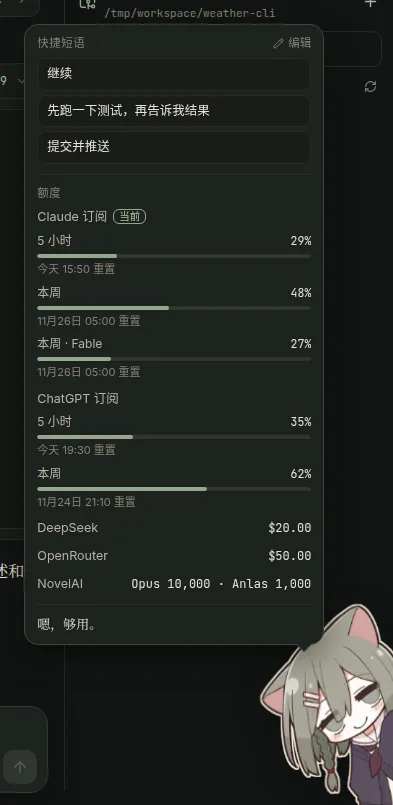
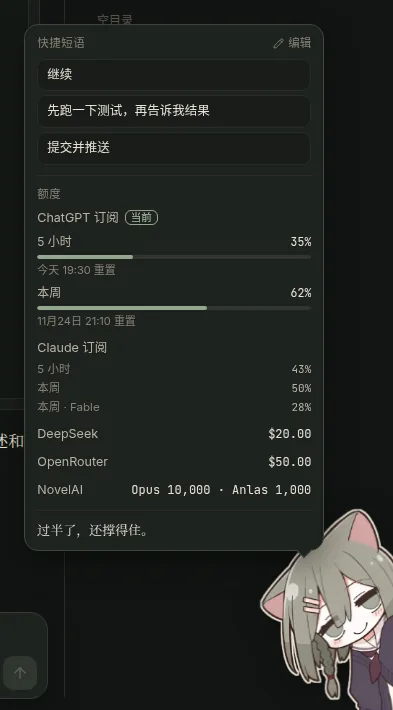
Doll: the quota in use in full, the others one line per window
Meters belong to the open session's quota (all its windows, the per-model
ones too); every other quota, and all of them on the home page, show one
line per window with the percentage, the reset time in a tooltip.

diff --git a/frontend/src/features/doll/Doll.tsx b/frontend/src/features/doll/Doll.tsx
@@ -90,21 +90,20 @@ function randomReaction(): Expression {
   return lastReaction;
 }
 
-/** The models a window is for ("Fable", "Gemini 模型"), or null for the plan's general one. */
-function scopeOf(w: UsageWindow): string | null {
-  const scope = /\(([^)]+)\)/.exec(w.label)?.[1];
-  return scope && !/all models/i.test(scope) ? scope : null;
-}
-
-/** The main models' windows (the first window's) get a meter; the others one short line each. */
-function WindowRows({ windows }: { windows: UsageWindow[] }) {
-  const main = scopeOf(windows[0]);
-  const minor = windows.filter((w) => scopeOf(w) !== main);
+/** A quota's windows: with meters for the one in use, one short line each for the others. */
+function WindowRows({ windows, compact }: { windows: UsageWindow[]; compact: boolean }) {
   return (
-    <div className="rz-doll-usage">
-      {windows.filter((w) => scopeOf(w) === main).map((w) => {
+    <div className={`rz-doll-usage${compact ? " compact" : ""}`}>
+      {windows.map((w) => {
         const level = w.percent >= 90 ? "high" : w.percent >= 80 ? "mid" : "";
         const reset = resetLabel(w.resetsAt, w.resetText);
+        if (compact)
+          return (
+            <div key={w.label} className={`rz-doll-minor ${level}`} title={reset ? `${reset} 重置` : undefined}>
+              <span>{windowName(w)}</span>
+              <span className="mono">{Math.round(w.percent)}%</span>
+            </div>
+          );
         return (
           <div key={w.label} className={`rz-doll-window ${level}`}>
             <div className="rz-doll-window-head">
@@ -116,21 +115,11 @@ function WindowRows({ windows }: { windows: UsageWindow[] }) {
           </div>
         );
       })}
-      {minor.map((w) => {
-        const level = w.percent >= 90 ? "high" : w.percent >= 80 ? "mid" : "";
-        const reset = resetLabel(w.resetsAt, w.resetText);
-        return (
-          <div key={w.label} className={`rz-doll-minor ${level}`} title={reset ? `${reset} 重置` : undefined}>
-            <span>{windowName(w)}</span>
-            <span className="mono">{Math.round(w.percent)}%</span>
-          </div>
-        );
-      })}
     </div>
   );
 }
 
-/** Every quota alike; the current session's one is marked. */
+/** Every quota alike; the one the open session uses is marked and shown in full, the others briefly. */
 function QuotaRows({ list, current }: { list: Quota[]; current: string | null }) {
   if (!list.length) return <div className="rz-doll-usage dim">没有可查的额度。</div>;
   return (
@@ -150,7 +139,9 @@ function QuotaRows({ list, current }: { list: Quota[]; current: string | null })
               <span className="mono">{q.balances.map(formatBalance).join(" · ") || "—"}</span>
             ) : null}
           </div>
-          {!q.error && q.windows && q.windows.length > 0 && <WindowRows windows={q.windows} />}
+          {!q.error && q.windows && q.windows.length > 0 && (
+            <WindowRows windows={q.windows} compact={current === null || q.route !== current} />
+          )}
         </div>
       ))}
     </div>
@@ -634,7 +625,7 @@ export default function Doll() {
               <div className="rz-doll-line">{bubble.text}</div>
               {(() => {
                 const q = bubble.quota ? list.find((x) => x.id === bubble.quota) : undefined;
-                return q?.windows?.length ? <WindowRows windows={q.windows} /> : null;
+                return q?.windows?.length ? <WindowRows windows={q.windows} compact={false} /> : null;
               })()}
               {bubble.action && (
                 <button type="button" className="rz-doll-action" onClick={() => { bubble.action?.run(); closeBubble(); }}>

diff --git a/docs/_src/en/guide.html b/docs/_src/en/guide.html
@@ -242,7 +242,7 @@ rieszctl session schedule pause ID       # resume turns it back on, run sends no
 <p>Tap Riesz to open a panel with three sections, from top to bottom:</p>
 <ul>
   <li><b>Quick phrases</b> (快捷短语): Tap a phrase to insert it into the composer (at the cursor, or on a new line after existing text). Click “Edit” (编辑) at the top right of the section, or under “Settings → General → Riesz doll → Quick phrases” (设置 → 通用 → 莉思玩偶 → 快捷短语), to write multi-line phrases and reorder them. Phrases are saved on the server and shared across all your devices.</li>
-  <li><b>Quotas</b> (额度): Every quota that can be checked, shown alike. While a session is open, the one it is using comes first, marked “Current” (当前).
+  <li><b>Quotas</b> (额度): Every quota that can be checked. While a session is open, the one it is using comes first, marked “Current” (当前), each window with a meter and its reset time; the others take one line per window with the percentage used (hover to see the reset time).
     <ul>
       <li>Subscriptions: the percentage used and reset time of each quota window (such as “5 hours” (5 小时) or “This week” (本周)). Claude's numbers come from Claude Code's own <code>/usage</code> command, ChatGPT's from Codex and Google's from Antigravity's <code>/quota</code>; checking them does not consume any quota.</li>
       <li>API balances: one row per service; DeepSeek, OpenRouter and NovelAI are supported. NovelAI shows two figures: the subscription's monthly allowance (labelled with the tier, such as “Opus”) and purchased Anlas. The deployer configures them on the server (see <a href="deploy.html#balances">Deployment: Balances of other services</a>). Balances are checked at most every 15 minutes; “Refresh usage” (刷新用量) in the context menu checks again right away.</li>

diff --git a/docs/en/guide.html b/docs/en/guide.html
@@ -276,7 +276,7 @@ rieszctl session schedule pause ID       # resume turns it back on, run sends no
 <p>Tap Riesz to open a panel with three sections, from top to bottom:</p>
 <ul>
   <li><b>Quick phrases</b> (快捷短语): Tap a phrase to insert it into the composer (at the cursor, or on a new line after existing text). Click “Edit” (编辑) at the top right of the section, or under “Settings → General → Riesz doll → Quick phrases” (设置 → 通用 → 莉思玩偶 → 快捷短语), to write multi-line phrases and reorder them. Phrases are saved on the server and shared across all your devices.</li>
-  <li><b>Quotas</b> (额度): Every quota that can be checked, shown alike. While a session is open, the one it is using comes first, marked “Current” (当前).
+  <li><b>Quotas</b> (额度): Every quota that can be checked. While a session is open, the one it is using comes first, marked “Current” (当前), each window with a meter and its reset time; the others take one line per window with the percentage used (hover to see the reset time).
     <ul>
       <li>Subscriptions: the percentage used and reset time of each quota window (such as “5 hours” (5 小时) or “This week” (本周)). Claude's numbers come from Claude Code's own <code>/usage</code> command, ChatGPT's from Codex and Google's from Antigravity's <code>/quota</code>; checking them does not consume any quota.</li>
       <li>API balances: one row per service; DeepSeek, OpenRouter and NovelAI are supported. NovelAI shows two figures: the subscription's monthly allowance (labelled with the tier, such as “Opus”) and purchased Anlas. The deployer configures them on the server (see <a href="deploy.html#balances">Deployment: Balances of other services</a>). Balances are checked at most every 15 minutes; “Refresh usage” (刷新用量) in the context menu checks again right away.</li>

diff --git a/frontend/src/features/doll/doll.css b/frontend/src/features/doll/doll.css
@@ -223,6 +223,7 @@
 .rz-doll-balances { display: grid; gap: 5px; }
 .rz-doll-quotas { display: grid; gap: 9px; }
 .rz-doll-quota .rz-doll-usage { margin-top: 5px; gap: 6px; }
+.rz-doll-quota .rz-doll-usage.compact { margin-top: 3px; gap: 2px; }
 .rz-doll-minor { display: flex; justify-content: space-between; gap: 12px; font-size: 11.5px; color: var(--text3); }
 .rz-doll-minor .mono { font-size: 11px; color: var(--text2); }
 .rz-doll-minor.mid .mono { color: var(--amber); }
